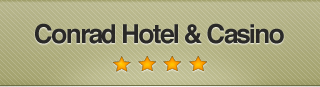
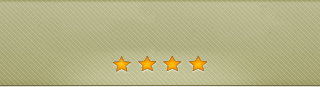
Avances en la interfaz de usuario de la ficha! Falta trabajar más!

Changed region(s): [[0.0938, 0.2529, 0.9062, 0.5747]]

diff --git a/Resources/ui/common/DetailWindow.js b/Resources/ui/common/DetailWindow.js
@@ -1,13 +1,14 @@
-function ApplicationWindow(title) {
+function ApplicationWindow(title,model) {
 	var titleBg = Ti.Filesystem.getFile(Titanium.Filesystem.resourcesDirectory,'images/top-bar-bg.png');
-	
 	var self = Ti.UI.createWindow({
 		title:title,
 		backgroundColor:'white',
-		barImage:titleBg
-		
+		//barImage:titleBg,
+		barColor: '#84bb00'
 	});
+	
 	var scrollView = Ti.UI.createScrollView({
+	  backgroundColor:'#c6c5c1',
       contentWidth: 'auto',
       contentHeight: 'auto',
       scrollType : 'vertical',
@@ -15,47 +16,123 @@ function ApplicationWindow(title) {
       layout:'vertical'
     });
     
-    var view1 = Titanium.UI.createView({backgroundColor:'#123'});
-	var view2 = Titanium.UI.createView({backgroundColor:'#234'});
-	var view3 = Titanium.UI.createView({backgroundColor:'#345'});
+    /*IMAGENES***************************************************/
+   
 	var imagenes = Titanium.UI.createScrollableView({
-    views:[view1,view2,view3],
-	showPagingControl: false,
-	width: 'auto', 
-	height: '150',
-	opacity:0.8,
-	pagingControlColor:'transparent'
+	    views:model.imagenes,
+		showPagingControl: (Ti.Platform.osname==='android')?true:false,
+		width: 'auto', 
+		height: '150',
+		opacity:0.8,
+		pagingControlColor:'transparent'
 	});
+	
 	var PagingControl = require('ui/common/PagingControl');
 	var pgcontrol = new PagingControl(imagenes);
 	imagenes.add(pgcontrol);
 	scrollView.add(imagenes);
 	
+	 /*TITULO CON FONDO***************************************************/
 	var tituloBG = Ti.Filesystem.getFile(Titanium.Filesystem.resourcesDirectory,'images/FICHA_titulo.png');
-	var tituloImgView=Ti.UI.createImageView({image:tituloBG,height:'auto',width:'auto'});
-	var tituloView = Ti.UI.createView({height:'87',width:'auto'});
+	var tituloImgView=Ti.UI.createImageView({
+		image:tituloBG,
+		height:'auto',
+		width:'auto'
+	});
+	var tituloView = Ti.UI.createView({
+		height:'87',
+		width:'auto'
+	});
 	tituloView.add(tituloImgView);
+	
 	var tituloLabel = Ti.UI.createLabel({
-      color: 'black',
-      font: { fontSize:38,fontWeight:'bold' },
-      shadowColor: 'gray',
-      shadowOffset: {x:2, y:2},
-      text: 'HOTEL CONRAD',
+      color: '#373634',
+      top:25,
+      font: { fontSize:Titanium.Platform.displayCaps.platformWidth/17,fontWeight:'bold' },
+      // shadowColor: '#91918c',
+      shadowColor: 'white',
+      shadowOffset: {x:0, y:1},
+      text: model.titulo,
       textAlign: Ti.UI.TEXT_ALIGNMENT_CENTER,
       width: 'auto', height: 'auto'
     });
-   // tituloView.add(tituloLabel);
-    scrollView.add(tituloImgView);
     
-    var label2 = Ti.UI.createLabel({
-      color:'blue',
-      text: 'A long label with a few line breaks and unicode (UTF8) symbols such as a white chess piece \u2655 and the euro symbol \u20ac looks like this!\n',
-      textAlign: Ti.UI.TEXT_ALIGNMENT_CENTER,
-      width: 'auto', height: 'auto'
+    tituloView.add(tituloLabel);
+    scrollView.add(tituloView);
+    
+     /*DESCRIPCIONES***************************************************/
+    var descripciones = Ti.UI.createLabel({
+      top:15,
+      left:25,
+      right:25,
+      bottom:15,
+      color:'black',
+      font: { fontSize: Titanium.Platform.displayCaps.platformWidth/25 },
+      text: model.descripcion,
+      shadowColor: 'white',
+      shadowOffset: {x:0, y:1},
+      textAlign: Ti.UI.TEXT_ALIGNMENT_LEFT,
+      width: 'auto', 
+      height: 'auto'
     });
-    scrollView.add(label2);
+    scrollView.add(descripciones);
     
+     /*BOTONES***************************************************/
+    var bLlamar = Ti.UI.createButton({
+    	title:'Tel: '+'+543814305515',
+    	color:'black',
+    	width: Titanium.Platform.displayCaps.platformWidth - 30,
+    	number:'+543814305515',
+    	font: { fontSize: Titanium.Platform.displayCaps.platformWidth/23, fontWeight:'bold'  },
+    	bottom:15
+    });
+    bLlamar.addEventListener('click', function(e){
+  		Ti.Platform.openURL('tel:'+e.source.number);
+	});
+	
+	var bDireccion = Ti.UI.createButton({
+    	title:'Dir: '+'San Martin 300',
+    	color:'black',
+    	width: Titanium.Platform.displayCaps.platformWidth - 30,
+    	direction:'San Martin 300,'+'San Miguel de Tucumán',
+    	font: { fontSize:Titanium.Platform.displayCaps.platformWidth/23, fontWeight:'bold'  },
+    	bottom:15
+    });
+    bDireccion.addEventListener('click', function(e){
+  		Ti.Platform.openURL('http://maps.google.com/maps?q='+e.source.direction);
+  	});
+    
+    var bMail = Ti.UI.createButton({
+    	title:'Mail: '+model.mail,
+    	color:'black',
+    	width:Titanium.Platform.displayCaps.platformWidth - 30,
+    	mail:model.mail,
+    	font: { fontSize:Titanium.Platform.displayCaps.platformWidth/23, fontWeight:'bold'  },
+    	bottom:15
+    });
+    bMail.addEventListener('click', function(e){
+  		Ti.Platform.openURL('mailto:'+e.source.mail);
+  	});
+    
+    
+    var bWeb = Ti.UI.createButton({
+    	title:'Web: '+model.web,
+    	color:'black',
+    	width:Titanium.Platform.displayCaps.platformWidth - 30,
+    	web:model.web,
+    	font: { fontSize:Titanium.Platform.displayCaps.platformWidth/23, fontWeight:'bold'  },
+    	bottom:15
+    });
+    bWeb.addEventListener('click', function(e){
+  		Ti.Platform.openURL(e.source.web);
+  	});
+    
+    scrollView.add(bLlamar);
+    scrollView.add(bDireccion);
+    scrollView.add(bMail);
+    scrollView.add(bWeb);
 	self.add(scrollView);
 	return self;
 };
+
 module.exports = ApplicationWindow;

diff --git a/Resources/ui/common/GuideWindows.js b/Resources/ui/common/GuideWindows.js
@@ -1,6 +1,8 @@
 //Install new database
-var dbPath = require('ui/common/ConnectionsDB');
-var db = new dbPath('/PuntaCana.sqlite', 'PuntaCana');
+
+var ConnectionsDB = require('ui/common/ConnectionsDB').ConnectionsDB;
+var conexion = new ConnectionsDB('/PuntaCana.sqlite', 'PuntaCana');
+var db = conexion.inicializar();
 
 function ApplicationWindow(title,id) {
 	
@@ -33,9 +35,28 @@ function ApplicationWindow(title,id) {
 			win.containingTab = self.containingTab;
 			self.containingTab.open(win);
 		}else{
+			var DetailModel = require('ui/common/DetailModel').DetailModel;
+			var modelo = new DetailModel();
+			modelo.titulo = "Hotel Conrad Resort & Casinos";
+			modelo.subtitulo = "subtitulo";
+			modelo.descripcion = "Ubicado en el corazón del balneario más exclusivo de Sudamérica, a tan solo 15 minutos del"+ 
+								"Aeropuerto Internacional en Playa Mansa, frente a la Isla Gorriti.\n\nConrad Punta del Este Resort"+ 
+								" & Casino es un espectacular Resort que cuenta con un flamante casino estilo Las Vegas, único en la"+
+								" región, ubicado estratégicamente al este de Argentina, a solo 35 minutos de Buenos Aires por avión,"+
+								" y al sur de Brasil, a 2 horas y media de Sao Paulo.";
+			modelo.mail = "info@patxa.com";
+			modelo.web = "http://www.patxa.com/";
+			var view1 = Titanium.UI.createView({backgroundColor:'#123'});
+		 	var view2 = Titanium.UI.createView({backgroundColor:'#234'});
+			var view3 = Titanium.UI.createView({backgroundColor:'#345'});			
+			modelo.imagenes = [view1,view2,view3];
+			
+			
 			var DetailWindow = require('ui/common/DetailWindow');
-			var win = new DetailWindow('Detalle');
+			var win = new DetailWindow('Detalle',modelo);
 			self.containingTab.open(win);
+			
+			
 		}
 		
 	});
@@ -221,7 +242,7 @@ function crearFilasTabla(dataBD){
 	  dataBD.next();
 	}
 	
-	dataBD.close();
+	//dataBD.close();
 	
 	var seccionVacia = Ti.UI.createTableViewSection({});
 	seccionVacia = tbl_sections[0];

diff --git a/Resources/ui/common/ConnectionsDB.js b/Resources/ui/common/ConnectionsDB.js
@@ -1,15 +1,24 @@
-function ConnectionsDB(localPath,devicePath){
-		var dbOLD = Ti.Database.install(localPath, devicePath);
-		//Destroy it
-		if(dbOLD){
-			Ti.API.info('remove');
-			dbOLD.close();
-			dbOLD.remove();
-		}
-		 
-		var db = Ti.Database.install(localPath,devicePath);
-		db = Ti.Database.open(devicePath);
-
-		return db;
+exports.ConnectionsDB = function (localPath,devicePath){
+		this.localPath = localPath;
+		this.devicePath = devicePath;
+		this.db = null;
+		
+		this.inicializar = function(){
+			var dbOLD = Ti.Database.install(this.localPath, this.devicePath);
+			//Destroy it
+			if(dbOLD){
+				Ti.API.info('remove');
+				dbOLD.close();
+				dbOLD.remove();
+			}
+			 
+			var db = Ti.Database.install(this.localPath,this.devicePath);
+			this.db = Ti.Database.open(this.devicePath);
+	
+			return this.db;
+		};
+		
+		this.cerrar = function(){
+			this.db.close();
+		};
 };
-module.exports = ConnectionsDB;

diff --git a/Resources/ui/common/DetailModel.js b/Resources/ui/common/DetailModel.js
@@ -1,0 +1,21 @@
+module.exports.DetailModel = function(titulo){
+	this.imagenes = [];
+	this.titulo=titulo;
+	this.subtitulo=null;
+	this.icono=null;
+	this.descripcion=null;	
+	this.telefonos=null;
+	this.direcciones=null;
+	this.mail=null;
+	this.web=null;
+	
+	
+	this.getWeb = function(){
+		return this.web;
+	}
+};
+
+exports.DetailModel.prototype.getTitulo = function(){
+	return this.titulo;
+}
+
